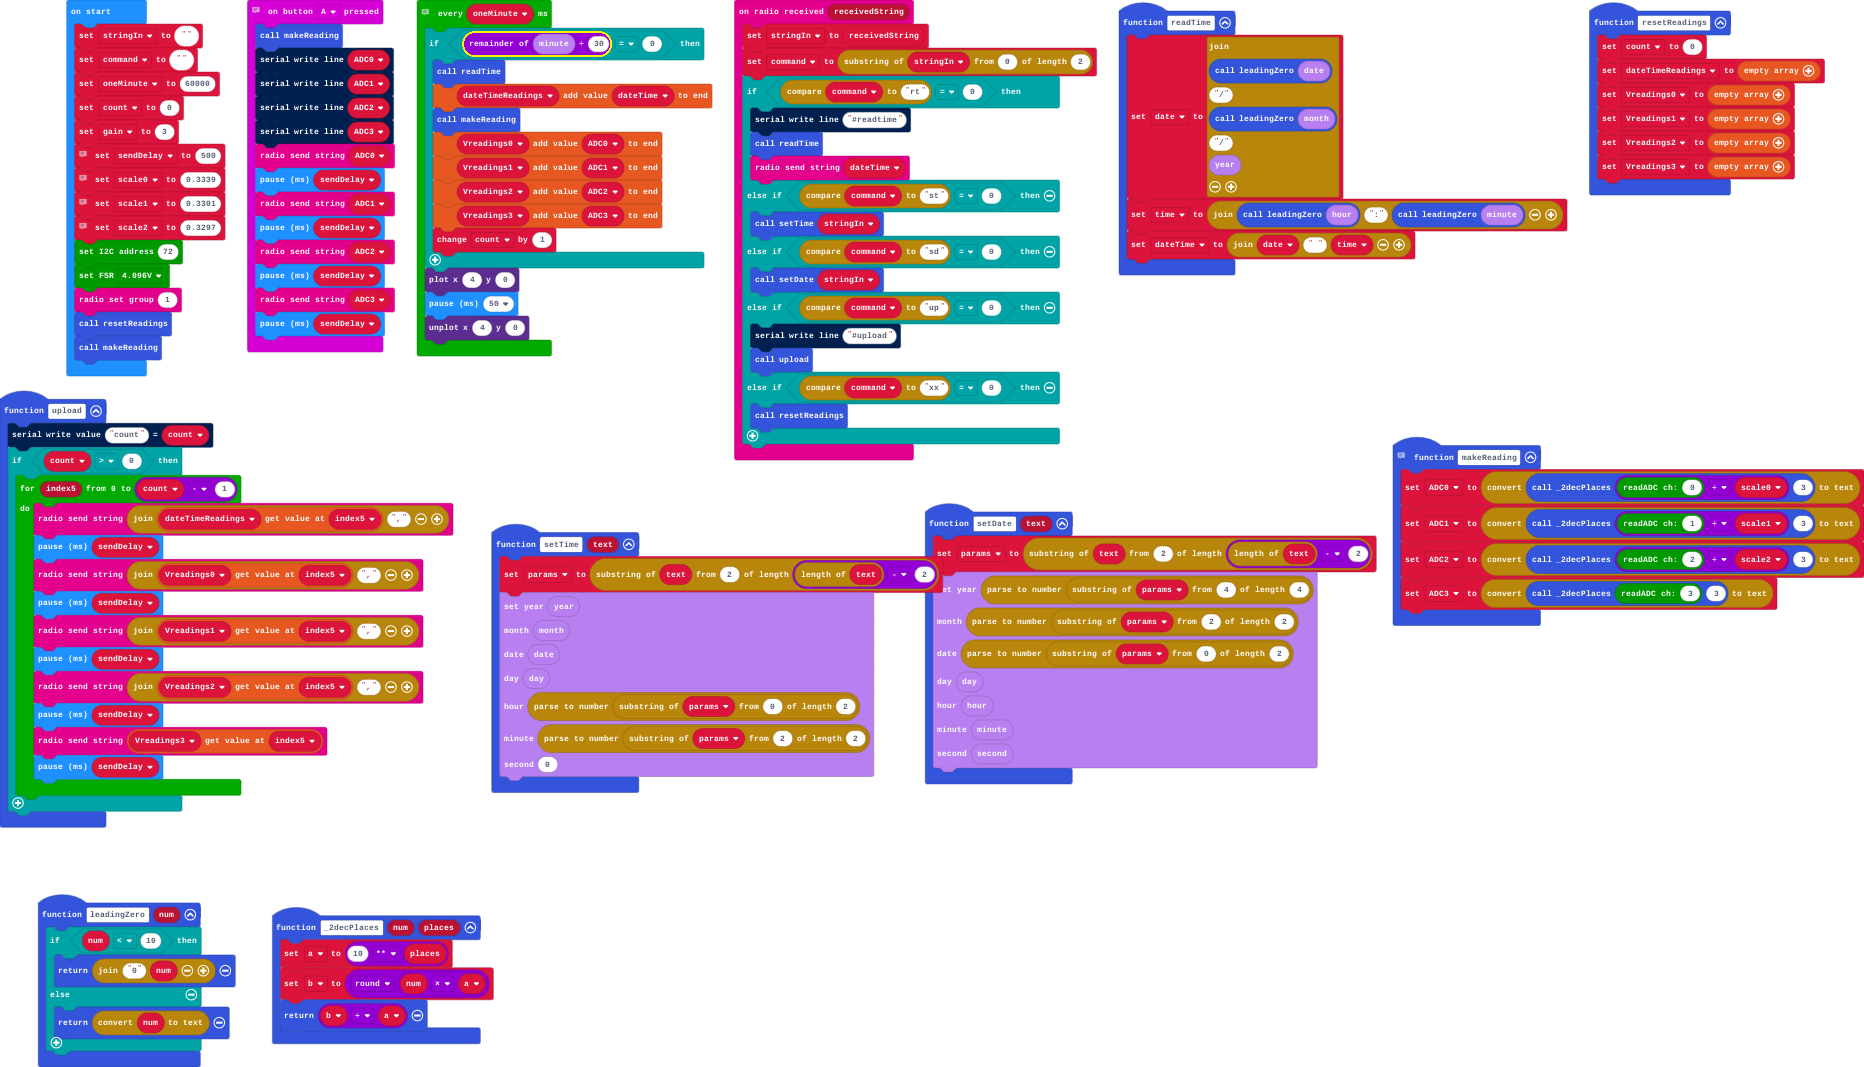
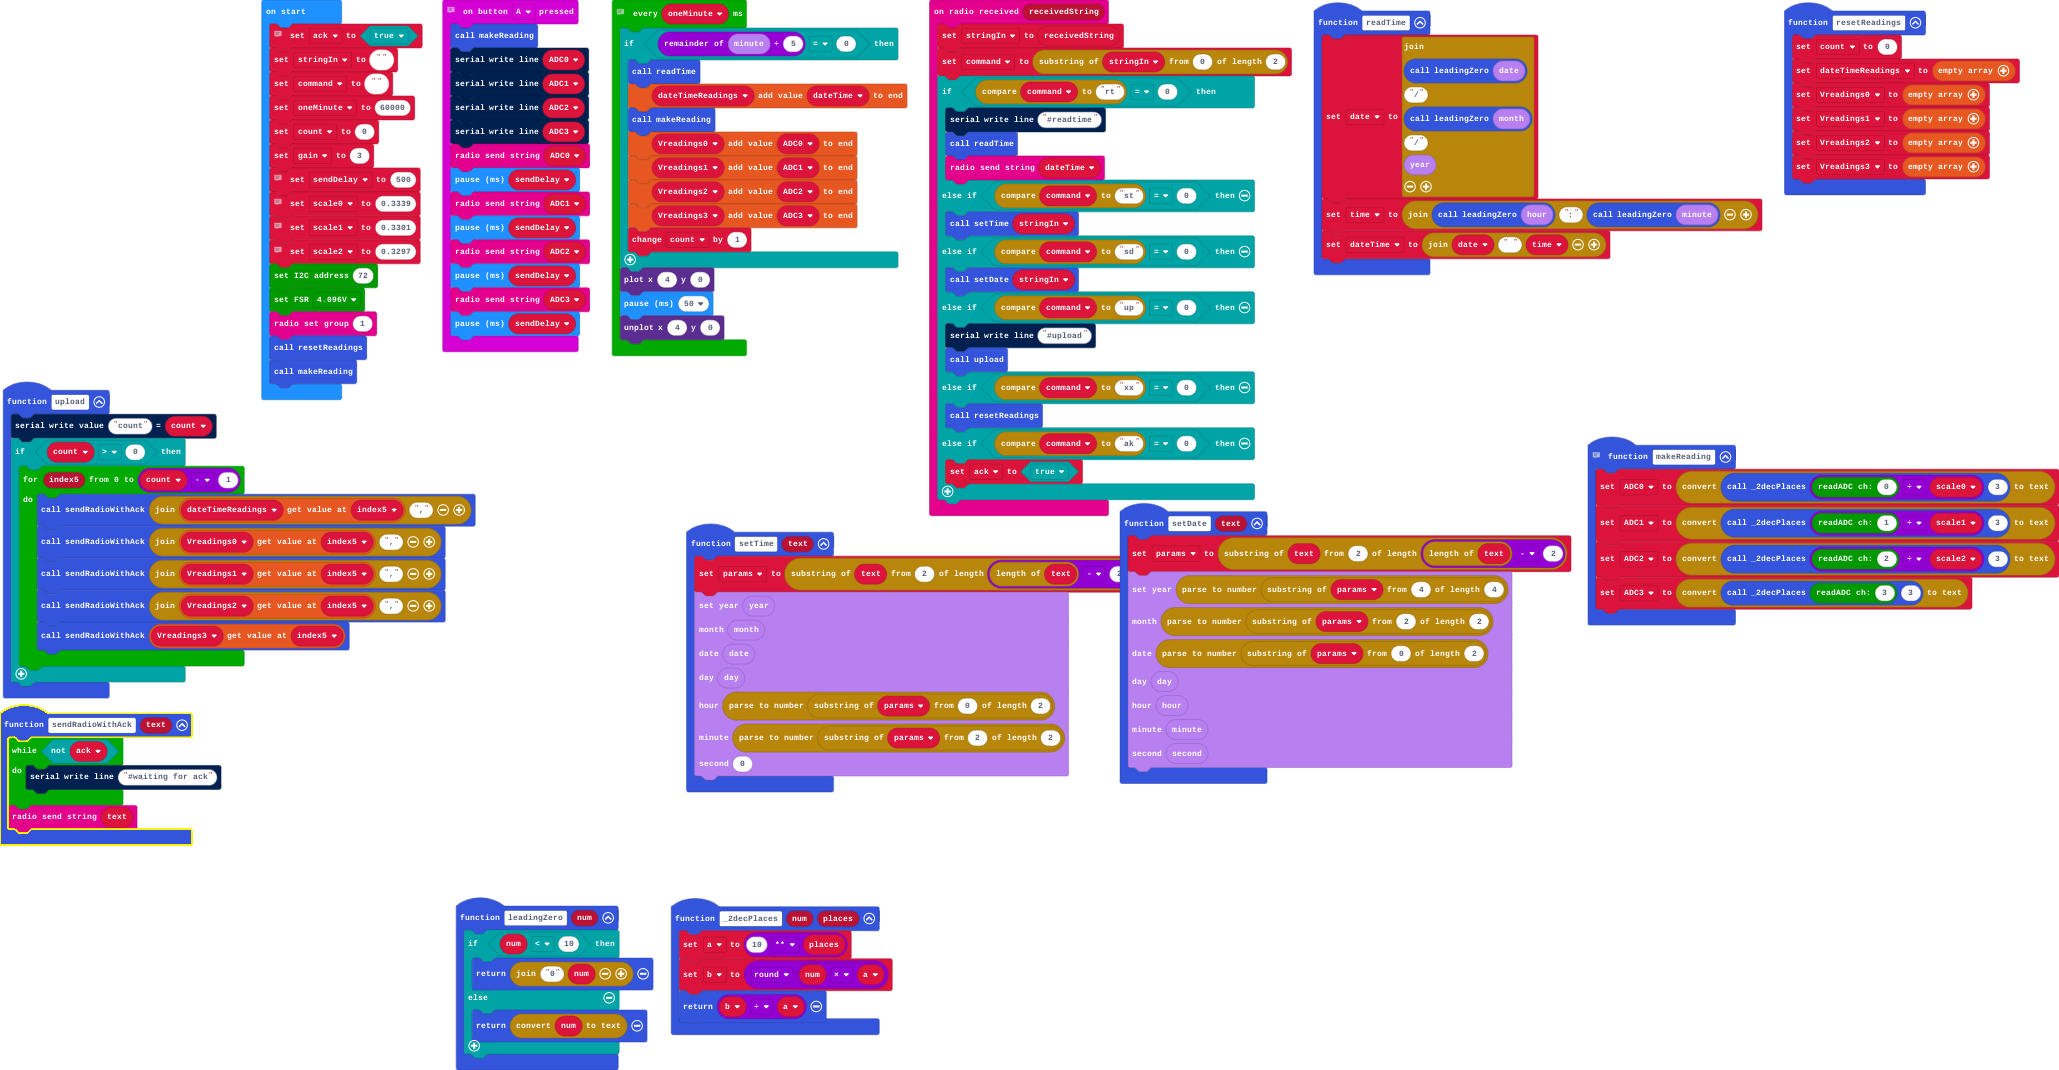
function for sending radio test with ack

diff --git a/main.ts b/main.ts
@@ -46,6 +46,12 @@ input.onButtonPressed(Button.A, function () {
     radio.sendString(ADC3)
     basic.pause(sendDelay)
 })
+function sendRadioWithAck (text: string) {
+    while (!(ack)) {
+        serial.writeLine("#waiting for ack")
+    }
+    radio.sendString(text)
+}
 function setDate (text: string) {
     params = text.substr(2, text.length - 2)
     DS3231.dateTime(
@@ -62,16 +68,11 @@ function upload () {
     serial.writeValue("count", count)
     if (count > 0) {
         for (let index5 = 0; index5 <= count - 1; index5++) {
-            radio.sendString("" + dateTimeReadings[index5] + ",")
-            basic.pause(sendDelay)
-            radio.sendString("" + Vreadings0[index5] + ",")
-            basic.pause(sendDelay)
-            radio.sendString("" + Vreadings1[index5] + ",")
-            basic.pause(sendDelay)
-            radio.sendString("" + Vreadings2[index5] + ",")
-            basic.pause(sendDelay)
-            radio.sendString("" + (Vreadings3[index5]))
-            basic.pause(sendDelay)
+            sendRadioWithAck("" + dateTimeReadings[index5] + ",")
+            sendRadioWithAck("" + Vreadings0[index5] + ",")
+            sendRadioWithAck("" + Vreadings1[index5] + ",")
+            sendRadioWithAck("" + Vreadings2[index5] + ",")
+            sendRadioWithAck(Vreadings3[index5])
         }
     }
 }
@@ -103,6 +104,8 @@ radio.onReceivedString(function (receivedString) {
         upload()
     } else if (command.compare("xx") == 0) {
         resetReadings()
+    } else if (command.compare("ak") == 0) {
+        ack = true
     }
 })
 let params = ""
@@ -127,6 +130,9 @@ let sendDelay = 0
 let count = 0
 let command = ""
 let stringIn = ""
+let ack = false
+// only upload a string to radio if ack is true
+ack = true
 stringIn = ""
 command = ""
 let oneMinute = 60000
@@ -147,7 +153,7 @@ resetReadings()
 makeReading()
 // TODO - add multi-minute loop
 loops.everyInterval(oneMinute, function () {
-    if (DS3231.minute() % 30 == 0) {
+    if (DS3231.minute() % 5 == 0) {
         readTime()
         dateTimeReadings.push(dateTime)
         makeReading()
